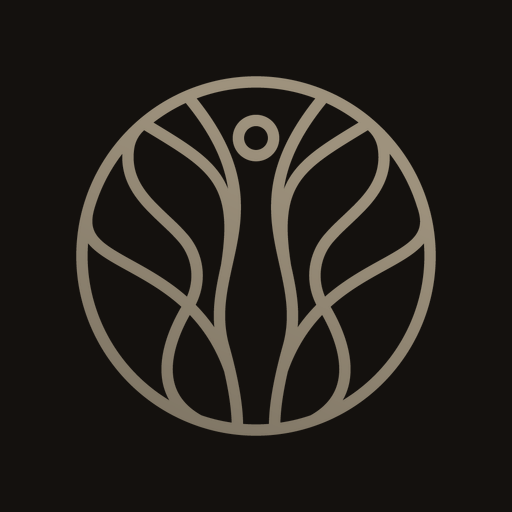
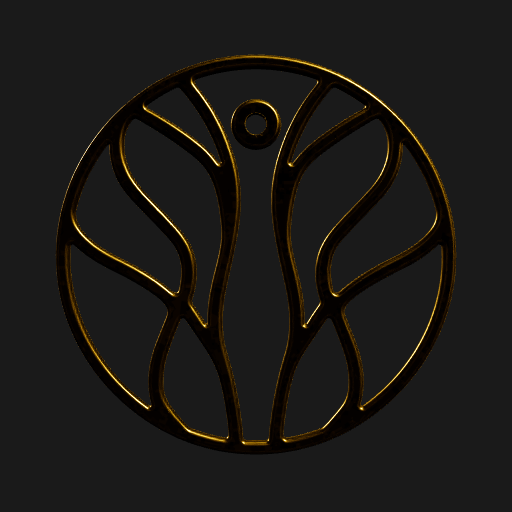
Use the 3D loading-screen Thrive seal for the Gmail sender GIF.

Changed region(s): [[0.125, 0.0938, 0.9062, 0.875]]

diff --git a/scripts/sender-avatar-3d.html b/scripts/sender-avatar-3d.html
@@ -1,0 +1,125 @@
+<!DOCTYPE html>
+<html lang="es">
+  <head>
+    <meta charset="utf-8" />
+    <title>Thrive sender avatar</title>
+    <style>
+      html,
+      body {
+        margin: 0;
+        background: #1a1a1a;
+        overflow: hidden;
+      }
+      canvas {
+        display: block;
+      }
+    </style>
+    <script type="importmap">
+      {
+        "imports": {
+          "three": "/node_modules/three/build/three.module.js",
+          "three/addons/": "/node_modules/three/examples/jsm/"
+        }
+      }
+    </script>
+  </head>
+  <body>
+    <canvas id="view" width="512" height="512"></canvas>
+    <script type="module">
+      import * as THREE from "three";
+      import { GLTFLoader } from "three/addons/loaders/GLTFLoader.js";
+      import { DRACOLoader } from "three/addons/loaders/DRACOLoader.js";
+      import { MeshoptDecoder } from "three/addons/libs/meshopt_decoder.module.js";
+
+      const SIZE = 512;
+      const BG = 0x1a1a1a;
+      const canvas = document.getElementById("view");
+      const renderer = new THREE.WebGLRenderer({
+        canvas,
+        antialias: true,
+        alpha: false,
+        preserveDrawingBuffer: true,
+        powerPreference: "high-performance",
+      });
+      renderer.setPixelRatio(1);
+      renderer.setSize(SIZE, SIZE, false);
+      renderer.setClearColor(BG, 1);
+      renderer.toneMapping = THREE.ACESFilmicToneMapping;
+      renderer.toneMappingExposure = 1.25;
+      renderer.outputColorSpace = THREE.SRGBColorSpace;
+
+      const scene = new THREE.Scene();
+      scene.background = new THREE.Color(BG);
+
+      const camera = new THREE.PerspectiveCamera(42, 1, 0.01, 100);
+      camera.position.set(0, 0, 5);
+
+      scene.add(new THREE.AmbientLight(0xffffff, 0.9));
+      const hemi = new THREE.HemisphereLight(0xfff5e0, 0x2a2218, 0.65);
+      scene.add(hemi);
+      const key = new THREE.DirectionalLight(0xffffff, 1.8);
+      key.position.set(6, 8, 7);
+      scene.add(key);
+      const fill = new THREE.DirectionalLight(0xffffff, 0.75);
+      fill.position.set(-5, 3, -4);
+      scene.add(fill);
+      const spot = new THREE.SpotLight(0xffffff, 0.85, 0, 0.55, 0.6);
+      spot.position.set(0, 6, 2);
+      scene.add(spot);
+
+      const pivot = new THREE.Group();
+      scene.add(pivot);
+
+      window.__error = "";
+      window.__ready = false;
+      window.__setFrame = function () {};
+
+      function fit(object) {
+        const box = new THREE.Box3().setFromObject(object);
+        const size = box.getSize(new THREE.Vector3());
+        const center = box.getCenter(new THREE.Vector3());
+        object.position.sub(center);
+        const maxDim = Math.max(size.x, size.y, size.z) || 1;
+        const fov = THREE.MathUtils.degToRad(camera.fov);
+        const dist = (maxDim / 2 / Math.tan(fov / 2)) * 1.28;
+        camera.position.set(0, maxDim * 0.04, dist);
+        camera.near = dist / 100;
+        camera.far = dist * 20;
+        camera.lookAt(0, 0, 0);
+        camera.updateProjectionMatrix();
+      }
+
+      async function boot() {
+        if (MeshoptDecoder.ready) await MeshoptDecoder.ready;
+        const loader = new GLTFLoader();
+        const draco = new DRACOLoader();
+        draco.setDecoderPath("/node_modules/three/examples/jsm/libs/draco/gltf/");
+        loader.setDRACOLoader(draco);
+        loader.setMeshoptDecoder(MeshoptDecoder);
+
+        const gltf = await loader.loadAsync("/logos/logo3ddorado.glb");
+        const model = gltf.scene;
+        model.traverse((child) => {
+          if (child.isMesh) {
+            child.castShadow = false;
+            child.receiveShadow = false;
+            if (child.material) child.material.needsUpdate = true;
+          }
+        });
+        pivot.add(model);
+        fit(model);
+
+        window.__setFrame = function (index, total) {
+          pivot.rotation.y = (index / total) * Math.PI * 2;
+          renderer.render(scene, camera);
+        };
+        window.__setFrame(0, 48);
+        window.__ready = true;
+      }
+
+      boot().catch((err) => {
+        window.__error = err && err.message ? err.message : String(err);
+      });
+    </script>
+  </body>
+</html>
